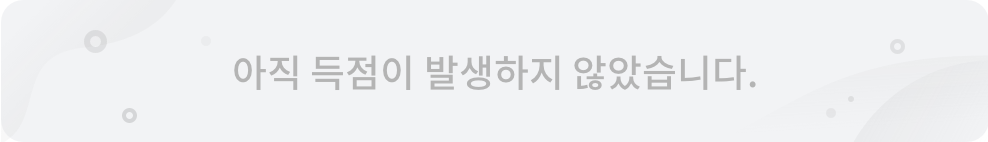
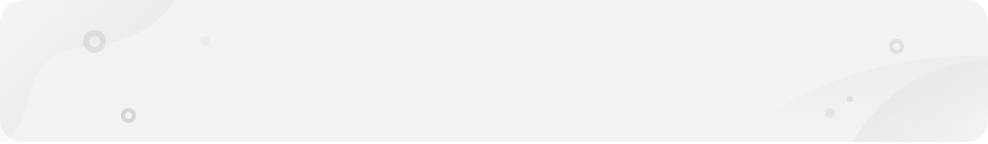
HOME
HOME

Changed region(s): [[0.2126, 0.3944, 0.7895, 0.6479]]

diff --git a/res/css/ui.css b/res/css/ui.css
@@ -78,7 +78,7 @@
 .home.content .title_hd > span.sec_title {height:2.4667rem;line-height:2.4667rem;font-size:1.6667rem;font-weight:bold;color:#000000;}
 .home.content .title_hd > .more {display:inline-block;position:absolute;top:0.1667rem;right:-0.8rem;width:3.2rem;height:3.2rem;vertical-align:top;background:url("../images/ic-arrow-title.png") no-repeat 50% 50%;background-size:cover;}
 .home.content .score_scroll .title_hd > span.vs {margin:0.2333rem 0.6667rem 0;width:1.6667rem;height:1.9667rem;font-size:1.3333rem;font-weight:bold;color:#ca0039;text-align:center;}
-.home.content .none_score {padding:1.4667em 0;height:4.8em;font-size:1.2667em;font-weight:500;color:#b4b4b4;text-align:center;background:url("../images/banner-score-empty.png") no-repeat 50% 50%;background-size:cover;}
+.home.content .none_score {padding:1.4667em 0;height:4.8em;font-size:1.2667em;font-weight:500;color:#b4b4b4;text-align:center;background:#f2f3f5 url("../images/banner-score-empty.png") no-repeat 50% 50%;background-size:cover;border-radius:0.7667rem;}
 .home.content .score_moment {margin:0.3333rem -1.5333rem 0;padding:0 1.5333rem;white-space:nowrap;overflow-x:auto;overflow-y:hidden;font-size:0;}
 .home.content .score_moment li {display:inline-block;margin-left:0.7667rem;padding:1.1rem 0.4833rem;width:12.1rem;height:4.7333rem;border-radius:0.7333rem;background-color:#f2f3f5;overflow:hidden;font-size:0;}
 .home.content .score_moment li:first-child {margin-left:0;}

diff --git a/home.html b/home.html
@@ -656,7 +656,7 @@
 		        <div class="inner">
                     <a href="#none" class="usetab">
                         <div class="bg_box">
-                            <span class="bn_txt">오늘 드디어! 한국시리즈 7차전!</span>                            
+                            <span class="bn_txt">이벤트 보기</span>                            
                         </div>
                     </a>
                 </div>
